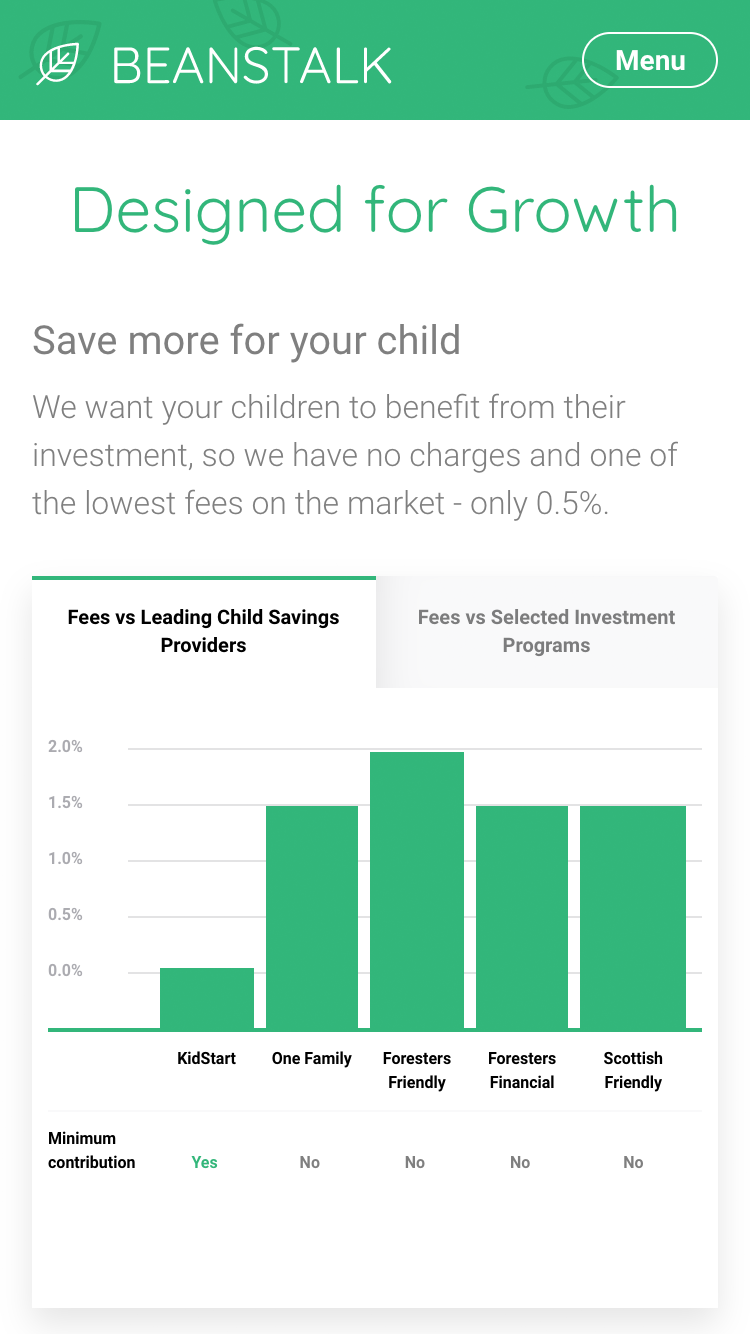
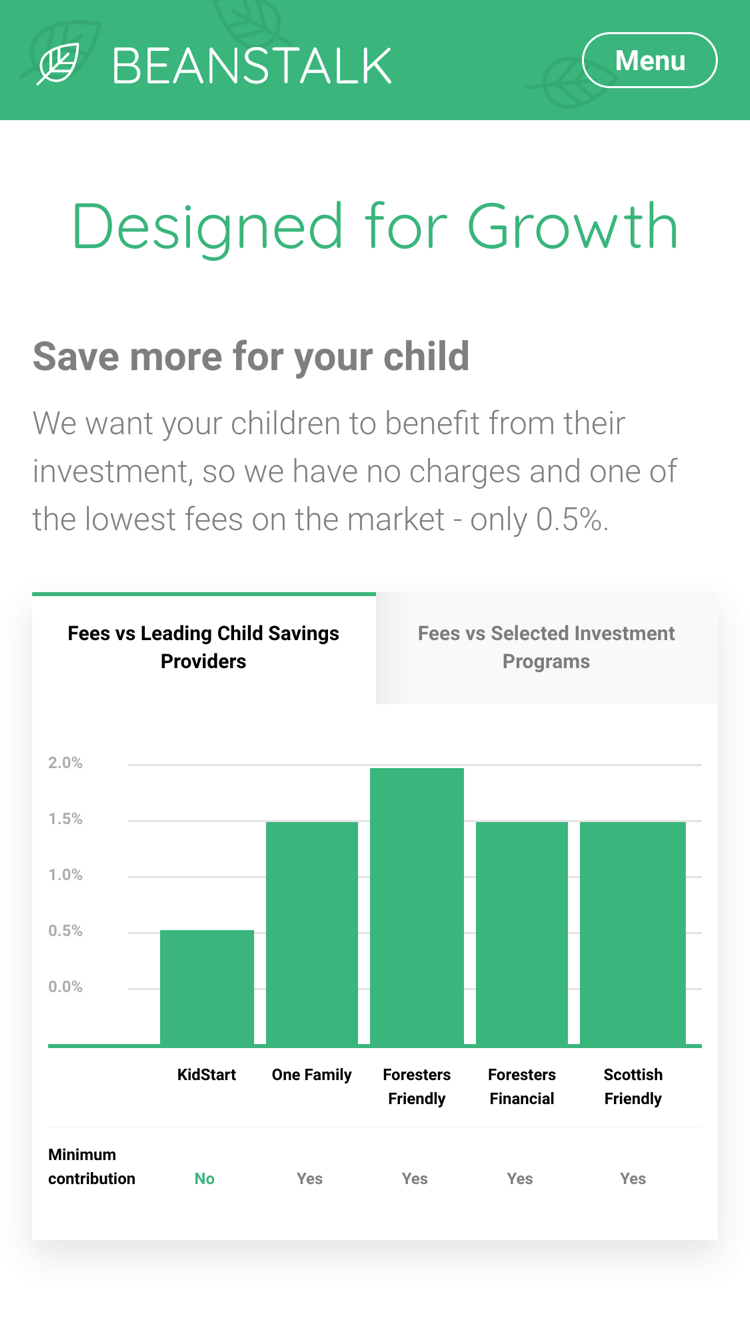
Update

diff --git a/src/components/homepage/homepage.module.scss b/src/components/homepage/homepage.module.scss
@@ -60,14 +60,12 @@
 .Homepage_motherAndBabyCartoon {
   @media (min-width: $breakpoint-sm) {
     z-index: -1;
-    right: 0;
-    bottom: -12rem;
+    right: 9rem;
+    bottom: -10rem;
     position: absolute;
-    width: 12.375rem;
-    height: 18.5rem;
-    width: 20.625rem;
-    height: 20rem;
-    background-image: url('./images/header_cartoon.svg');
+    width: 12.625rem;
+    height: 16.25rem;
+    background-image: url('./images/happy-family.svg');
     background-repeat: no-repeat;
   }
 }

diff --git a/src/components/designed-for-growth/designed-for-growth.module.scss b/src/components/designed-for-growth/designed-for-growth.module.scss
@@ -68,10 +68,10 @@
 .TextBlock_Header {
   font-size: $title-font-size;
   line-height: $title-line-height;
-  font-weight: 400;
+  font-weight: 700;
   margin-bottom: $base-unit;
   @media (min-width: $breakpoint-sm) {
-    margin-bottom: $base-unit * 2;
+    margin-bottom: $base-unit * 3;
     font-size: $headline-font-size;
     line-height: $headline-line-height;
   }

diff --git a/src/components/simple-bars/simple-bars.module.scss b/src/components/simple-bars/simple-bars.module.scss
@@ -4,7 +4,7 @@
   display: flex;
   margin-bottom: $base-unit * 3;
   @media (min-width: $breakpoint-sm) {
-    margin-bottom: $base-unit * 4;
+    margin-bottom: $base-unit * 8;
   }
 }
 

diff --git a/src/components/designed-for-growth-graph/designed-for-growth-graph.module.scss b/src/components/designed-for-growth-graph/designed-for-growth-graph.module.scss
@@ -231,7 +231,7 @@ $graph-bar-colour: $secondary;
 }
 
 .Diagram_wrapper {
-  min-height: 22.875rem;
+  //min-height: 22.875rem;
   box-shadow: $shadow-level-3;
 }
 
